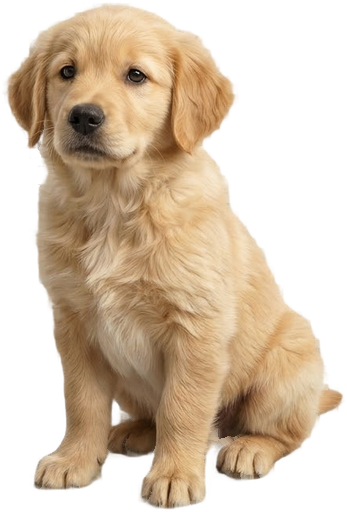
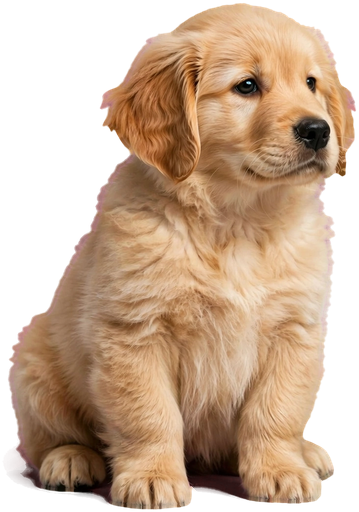
Картинки разделов: бизнес, красота, животные — все 12 верхних разделов готовы
key_art.py: кромка берёт цвет предмета изнутри (без цветной обводки по шерсти), снят пурпурный отсвет на тёплых краях.

diff --git a/tools/key_art.py b/tools/key_art.py
@@ -59,6 +59,22 @@ def key_out(path_in, path_out, size=512, glass=False):
     a[sh] = (np.clip((dark[sh] - 0.1) / 0.9, 0, 1) * 0.8 * near[sh])
     a[sh & (a < 0.05)] = 0
     out[sh] = 0
+    # кромка (7 точек у прозрачного, в исходнике 2048) берёт цвет предмета глубже 9 точек: так уходит розовая/зелёная
+    # обводка по шерсти и мягким краям, которую despill до конца не снимает
+    obj_px = a > 0.5
+    edge_d = ndimage.distance_transform_edt(obj_px)
+    deep = edge_d > 9
+    if deep.any():
+        _, (iy, ix) = ndimage.distance_transform_edt(~deep, return_indices=True)
+        band = obj_px & (edge_d <= 7) & ~sh
+        out[band] = out[iy[band], ix[band]]
+    # отсвет пурпурного фона на тёплых краях (шерсть, дерево): синий выше зелёного при красном выше синего —
+    # убираем лишний синий в 30 точках от края; синие и голубые предметы (R < B) не трогаем
+    if kind == 'magenta':
+        rim = obj_px & (edge_d <= 30)
+        R, G, B = out[..., 0], out[..., 1], out[..., 2]
+        warm = rim & (R > B) & (B > G)
+        B[warm] = G[warm] + (B[warm] - G[warm]) * 0.15
     if glass and inner.any():
         lum = out[inner].mean(axis=1, keepdims=True)
         out[inner] = np.clip(lum * 0.35 + np.array([38, 41, 47]), 0, 255)
